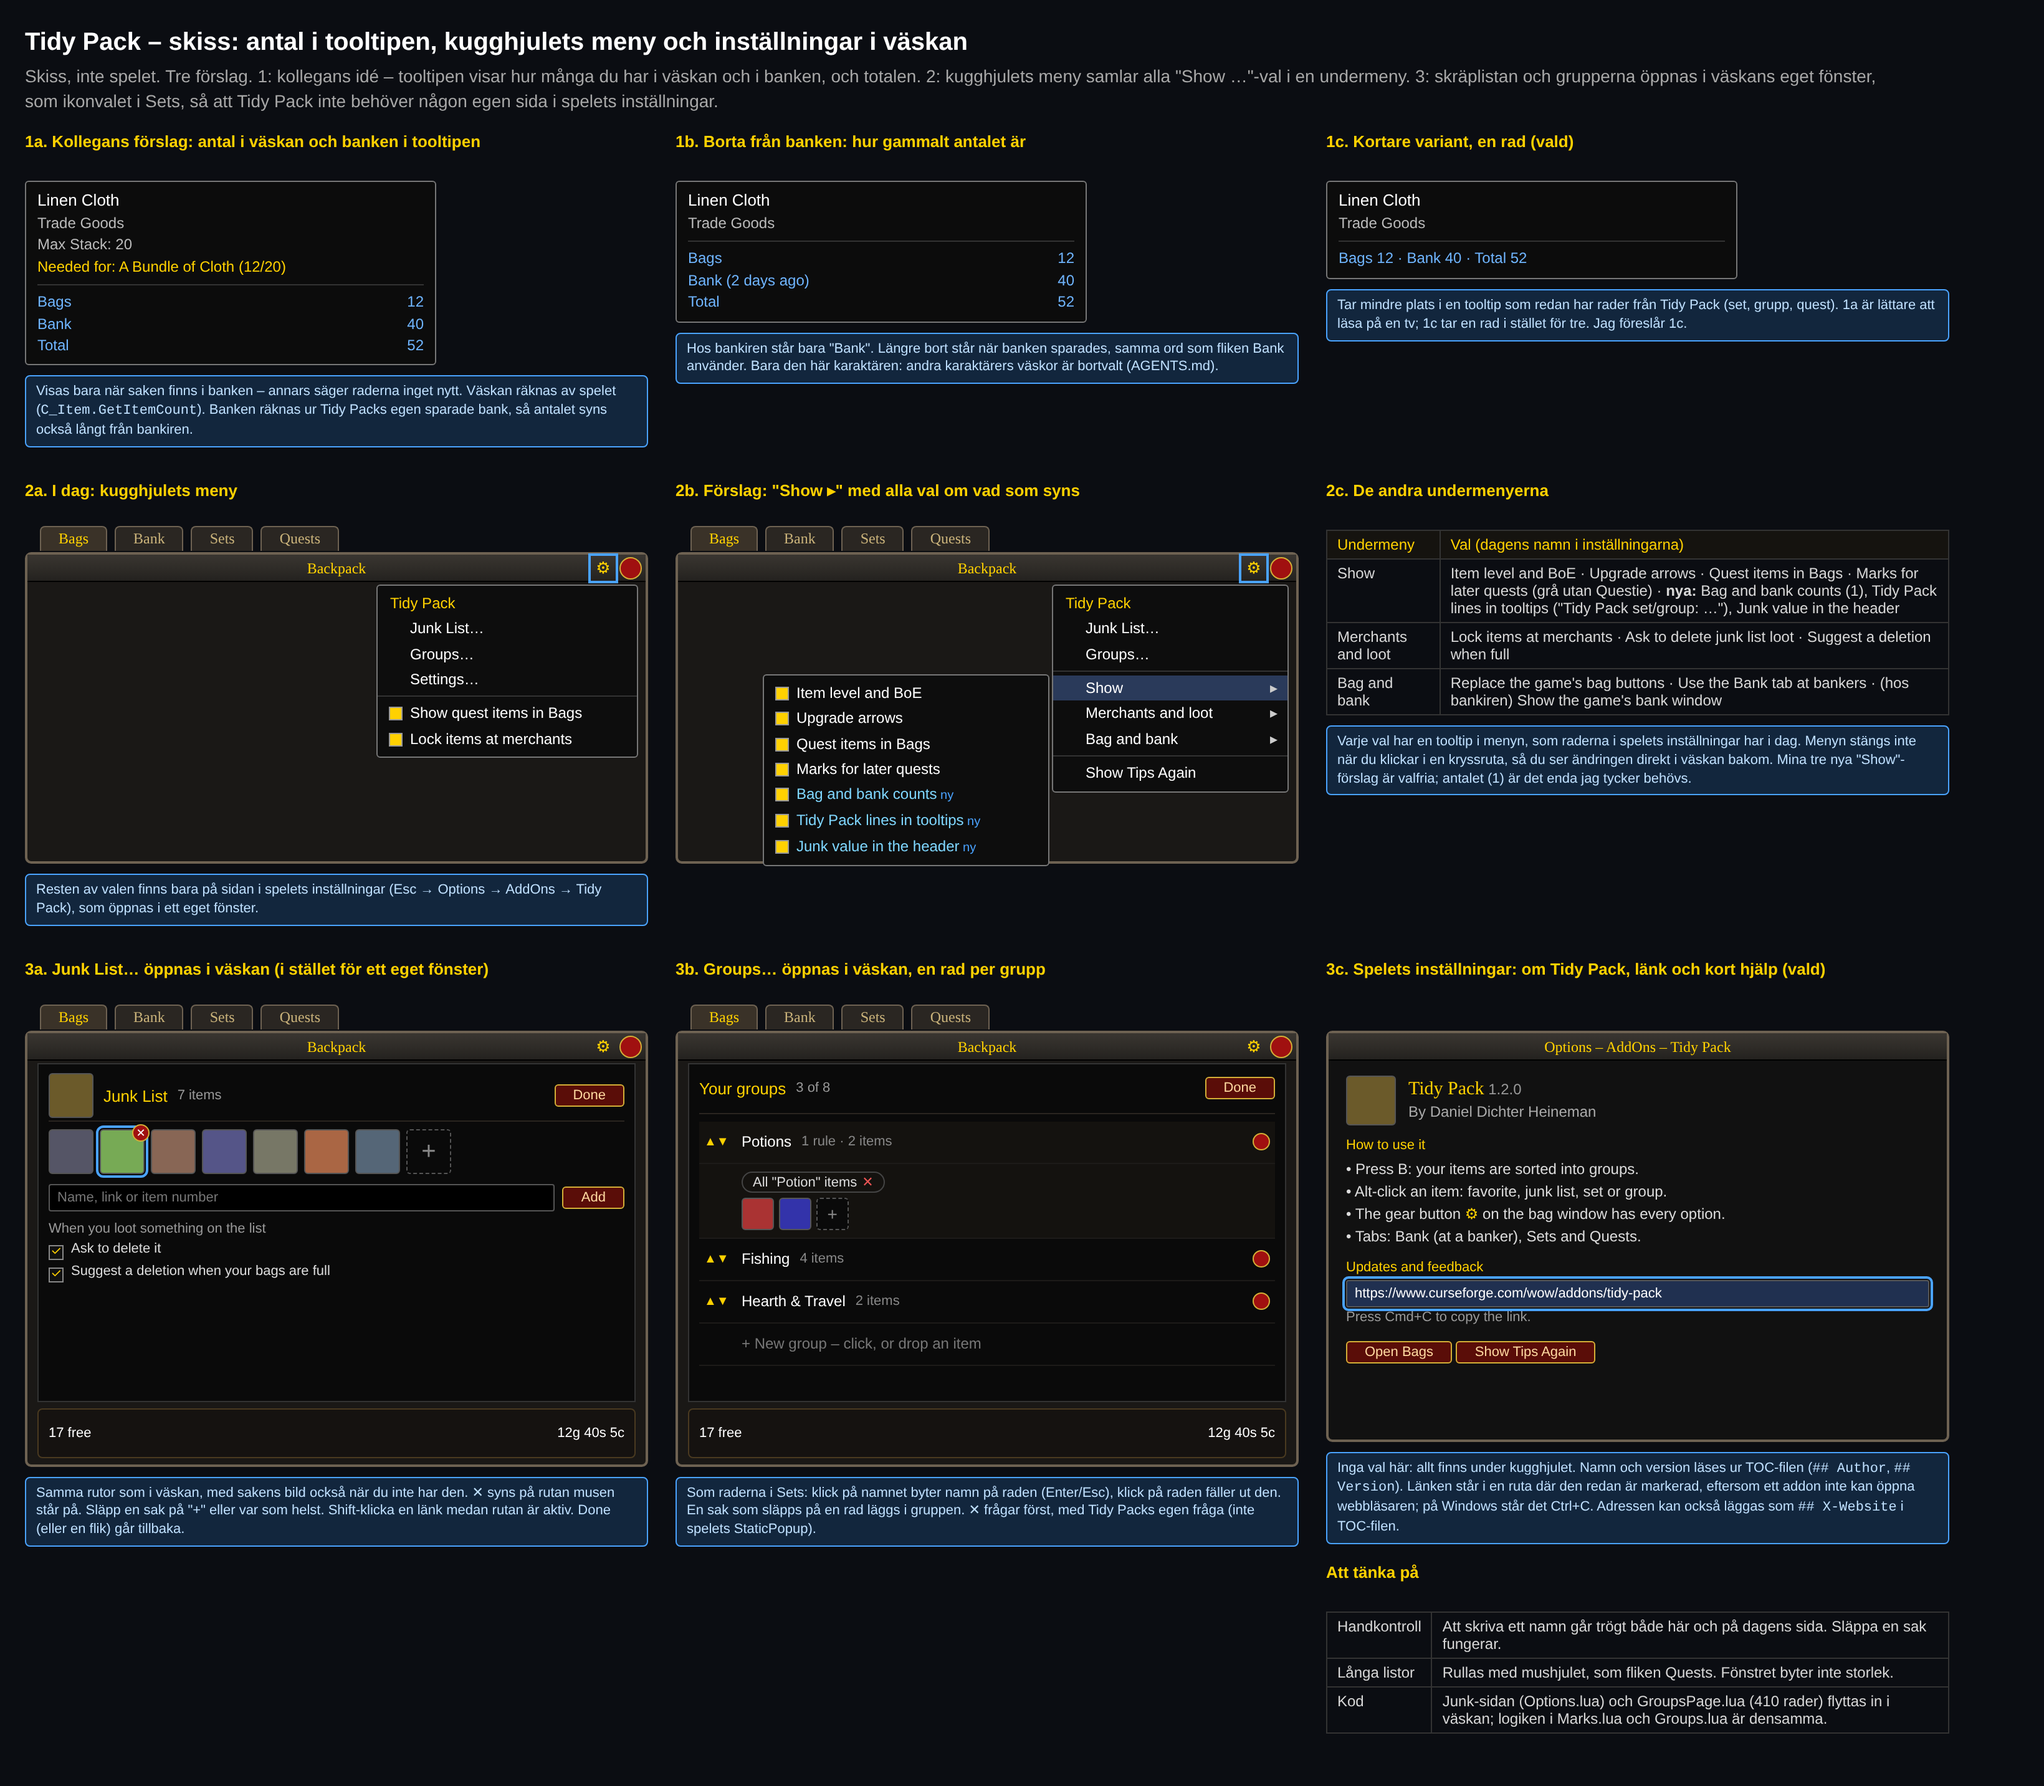
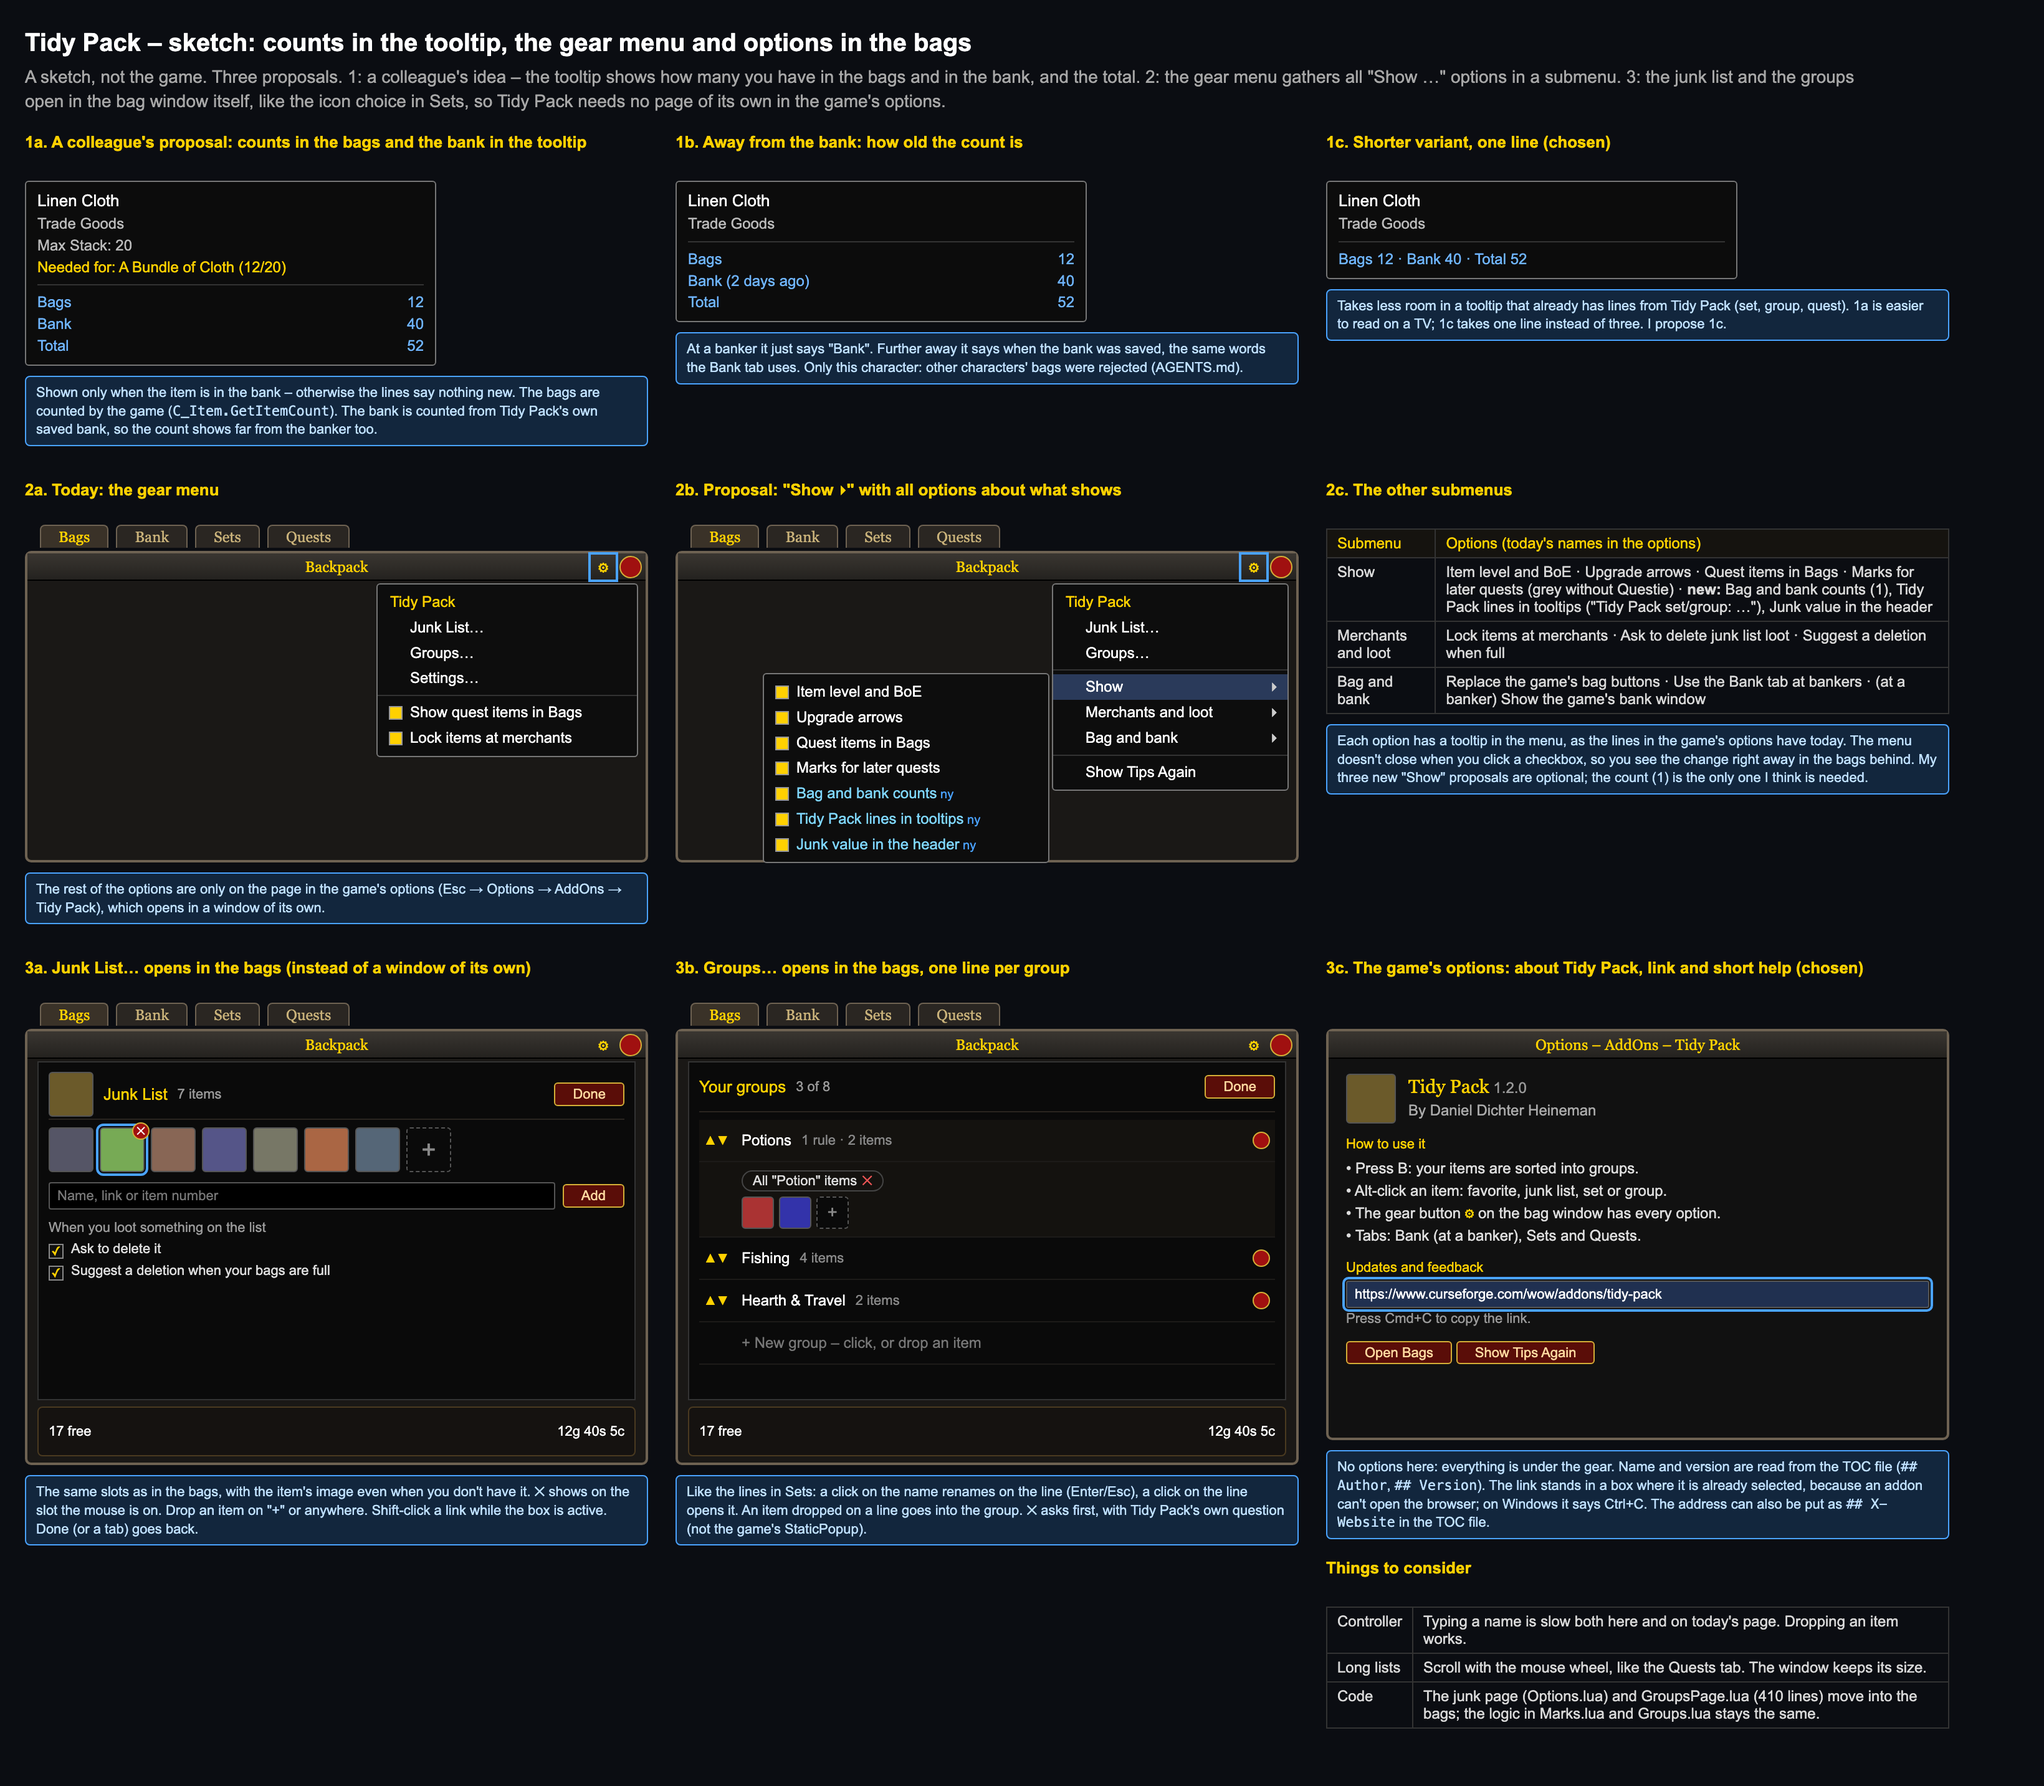
Translate .design/sketch-settings-in-bag to English (#7)

diff --git a/.design/sketch-settings-in-bag.html b/.design/sketch-settings-in-bag.html
@@ -1,5 +1,5 @@
 <!doctype html>
-<html lang="sv"><head><meta charset="utf-8"><title>Inställningar i väskan</title>
+<html lang="en"><head><meta charset="utf-8"><title>Options in the bags</title>
 <style>
 *{box-sizing:border-box}body{margin:0;padding:20px;background:#0b0d12;color:#d8d8d8;font:14px/1.4 Arial,sans-serif;width:1600px}
 h1{font-size:20px;margin:0 0 4px;color:#fff}.n{color:#a8a8a8;margin:0 0 14px;max-width:1500px}
@@ -38,13 +38,13 @@ h1{font-size:20px;margin:0 0 4px;color:#fff}.n{color:#a8a8a8;margin:0 0 14px;max
 .alt{font:11px Arial;color:#aaa;margin-top:10px}
 table{border-collapse:collapse;font:12px Arial;margin-top:6px}td,th{border:1px solid #333;padding:4px 8px;text-align:left;vertical-align:top}th{color:#ffd100;font-weight:normal;background:#15130f}
 </style></head><body>
-<h1>Tidy Pack – skiss: antal i tooltipen, kugghjulets meny och inställningar i väskan</h1>
-<p class="n">Skiss, inte spelet. Tre förslag. 1: kollegans idé – tooltipen visar hur många du har i väskan och i banken, och totalen. 2: kugghjulets meny samlar alla "Show …"-val i en undermeny. 3: skräplistan och grupperna öppnas i väskans eget fönster, som ikonvalet i Sets, så att Tidy Pack inte behöver någon egen sida i spelets inställningar.</p>
+<h1>Tidy Pack – sketch: counts in the tooltip, the gear menu and options in the bags</h1>
+<p class="n">A sketch, not the game. Three proposals. 1: a colleague's idea – the tooltip shows how many you have in the bags and in the bank, and the total. 2: the gear menu gathers all "Show …" options in a submenu. 3: the junk list and the groups open in the bag window itself, like the icon choice in Sets, so Tidy Pack needs no page of its own in the game's options.</p>
 
 <!-- 1. Tooltip -->
 <div class="row">
  <div class="col">
-  <h2>1a. Kollegans förslag: antal i väskan och banken i tooltipen</h2>
+  <h2>1a. A colleague's proposal: counts in the bags and the bank in the tooltip</h2>
   <div class="tt">
    <div class="w">Linen Cloth</div>
    <div class="gr">Trade Goods</div>
@@ -55,10 +55,10 @@ table{border-collapse:collapse;font:12px Arial;margin-top:6px}td,th{border:1px s
    <div class="cnt"><span>Bank</span><span>40</span></div>
    <div class="cnt"><span>Total</span><span>52</span></div>
   </div>
-  <div class="call">Visas bara när saken finns i banken – annars säger raderna inget nytt. Väskan räknas av spelet (<code>C_Item.GetItemCount</code>). Banken räknas ur Tidy Packs egen sparade bank, så antalet syns också långt från bankiren.</div>
+  <div class="call">Shown only when the item is in the bank – otherwise the lines say nothing new. The bags are counted by the game (<code>C_Item.GetItemCount</code>). The bank is counted from Tidy Pack's own saved bank, so the count shows far from the banker too.</div>
  </div>
  <div class="col">
-  <h2>1b. Borta från banken: hur gammalt antalet är</h2>
+  <h2>1b. Away from the bank: how old the count is</h2>
   <div class="tt">
    <div class="w">Linen Cloth</div>
    <div class="gr">Trade Goods</div>
@@ -67,24 +67,24 @@ table{border-collapse:collapse;font:12px Arial;margin-top:6px}td,th{border:1px s
    <div class="cnt"><span>Bank (2 days ago)</span><span>40</span></div>
    <div class="cnt"><span>Total</span><span>52</span></div>
   </div>
-  <div class="call">Hos bankiren står bara "Bank". Längre bort står när banken sparades, samma ord som fliken Bank använder. Bara den här karaktären: andra karaktärers väskor är bortvalt (AGENTS.md).</div>
+  <div class="call">At a banker it just says "Bank". Further away it says when the bank was saved, the same words the Bank tab uses. Only this character: other characters' bags were rejected (AGENTS.md).</div>
  </div>
  <div class="col">
-  <h2>1c. Kortare variant, en rad (vald)</h2>
+  <h2>1c. Shorter variant, one line (chosen)</h2>
   <div class="tt">
    <div class="w">Linen Cloth</div>
    <div class="gr">Trade Goods</div>
    <div class="sep"></div>
    <div class="bl">Bags 12 · Bank 40 · Total 52</div>
   </div>
-  <div class="call">Tar mindre plats i en tooltip som redan har rader från Tidy Pack (set, grupp, quest). 1a är lättare att läsa på en tv; 1c tar en rad i stället för tre. Jag föreslår 1c.</div>
+  <div class="call">Takes less room in a tooltip that already has lines from Tidy Pack (set, group, quest). 1a is easier to read on a TV; 1c takes one line instead of three. I propose 1c.</div>
  </div>
 </div>
 
 <!-- 2. Gear menu -->
 <div class="row">
  <div class="col">
-  <h2>2a. I dag: kugghjulets meny</h2>
+  <h2>2a. Today: the gear menu</h2>
   <div class="bag" style="height:250px">
    <div class="tabs"><div class="tab on">Bags</div><div class="tab">Bank</div><div class="tab">Sets</div><div class="tab">Quests</div></div>
    <div class="t">Backpack<span class="g hl">⚙</span><span class="x"></span></div>
@@ -96,10 +96,10 @@ table{border-collapse:collapse;font:12px Arial;margin-top:6px}td,th{border:1px s
     <div class="ck on">Lock items at merchants</div>
    </div>
   </div>
-  <div class="call">Resten av valen finns bara på sidan i spelets inställningar (Esc → Options → AddOns → Tidy Pack), som öppnas i ett eget fönster.</div>
+  <div class="call">The rest of the options are only on the page in the game's options (Esc → Options → AddOns → Tidy Pack), which opens in a window of its own.</div>
  </div>
  <div class="col">
-  <h2>2b. Förslag: "Show ▸" med alla val om vad som syns</h2>
+  <h2>2b. Proposal: "Show ▸" with all options about what shows</h2>
   <div class="bag" style="height:250px">
    <div class="tabs"><div class="tab on">Bags</div><div class="tab">Bank</div><div class="tab">Sets</div><div class="tab">Quests</div></div>
    <div class="t">Backpack<span class="g hl">⚙</span><span class="x"></span></div>
@@ -125,21 +125,21 @@ table{border-collapse:collapse;font:12px Arial;margin-top:6px}td,th{border:1px s
   </div>
  </div>
  <div class="col">
-  <h2>2c. De andra undermenyerna</h2>
+  <h2>2c. The other submenus</h2>
   <table>
-   <tr><th>Undermeny</th><th>Val (dagens namn i inställningarna)</th></tr>
-   <tr><td>Show</td><td>Item level and BoE · Upgrade arrows · Quest items in Bags · Marks for later quests (grå utan Questie) · <b class="bl">nya:</b> Bag and bank counts (1), Tidy Pack lines in tooltips ("Tidy Pack set/group: …"), Junk value in the header</td></tr>
+   <tr><th>Submenu</th><th>Options (today's names in the options)</th></tr>
+   <tr><td>Show</td><td>Item level and BoE · Upgrade arrows · Quest items in Bags · Marks for later quests (grey without Questie) · <b class="bl">new:</b> Bag and bank counts (1), Tidy Pack lines in tooltips ("Tidy Pack set/group: …"), Junk value in the header</td></tr>
    <tr><td>Merchants and loot</td><td>Lock items at merchants · Ask to delete junk list loot · Suggest a deletion when full</td></tr>
-   <tr><td>Bag and bank</td><td>Replace the game's bag buttons · Use the Bank tab at bankers · (hos bankiren) Show the game's bank window</td></tr>
+   <tr><td>Bag and bank</td><td>Replace the game's bag buttons · Use the Bank tab at bankers · (at a banker) Show the game's bank window</td></tr>
   </table>
-  <div class="call">Varje val har en tooltip i menyn, som raderna i spelets inställningar har i dag. Menyn stängs inte när du klickar i en kryssruta, så du ser ändringen direkt i väskan bakom. Mina tre nya "Show"-förslag är valfria; antalet (1) är det enda jag tycker behövs.</div>
+  <div class="call">Each option has a tooltip in the menu, as the lines in the game's options have today. The menu doesn't close when you click a checkbox, so you see the change right away in the bags behind. My three new "Show" proposals are optional; the count (1) is the only one I think is needed.</div>
  </div>
 </div>
 
 <!-- 3. Junk + groups in bag -->
 <div class="row">
  <div class="col">
-  <h2>3a. Junk List… öppnas i väskan (i stället för ett eget fönster)</h2>
+  <h2>3a. Junk List… opens in the bags (instead of a window of its own)</h2>
   <div class="bag">
    <div class="tabs"><div class="tab on">Bags</div><div class="tab">Bank</div><div class="tab">Sets</div><div class="tab">Quests</div></div>
    <div class="t">Backpack<span class="g">⚙</span><span class="x"></span></div>
@@ -160,10 +160,10 @@ table{border-collapse:collapse;font:12px Arial;margin-top:6px}td,th{border:1px s
    </div>
    <div class="foot"><span>17 free</span><span style="margin-left:auto">12g 40s 5c</span></div>
   </div>
-  <div class="call">Samma rutor som i väskan, med sakens bild också när du inte har den. ✕ syns på rutan musen står på. Släpp en sak på "+" eller var som helst. Shift-klicka en länk medan rutan är aktiv. Done (eller en flik) går tillbaka.</div>
+  <div class="call">The same slots as in the bags, with the item's image even when you don't have it. ✕ shows on the slot the mouse is on. Drop an item on "+" or anywhere. Shift-click a link while the box is active. Done (or a tab) goes back.</div>
  </div>
  <div class="col">
-  <h2>3b. Groups… öppnas i väskan, en rad per grupp</h2>
+  <h2>3b. Groups… opens in the bags, one line per group</h2>
   <div class="bag">
    <div class="tabs"><div class="tab on">Bags</div><div class="tab">Bank</div><div class="tab">Sets</div><div class="tab">Quests</div></div>
    <div class="t">Backpack<span class="g">⚙</span><span class="x"></span></div>
@@ -182,10 +182,10 @@ table{border-collapse:collapse;font:12px Arial;margin-top:6px}td,th{border:1px s
    </div>
    <div class="foot"><span>17 free</span><span style="margin-left:auto">12g 40s 5c</span></div>
   </div>
-  <div class="call">Som raderna i Sets: klick på namnet byter namn på raden (Enter/Esc), klick på raden fäller ut den. En sak som släpps på en rad läggs i gruppen. ✕ frågar först, med Tidy Packs egen fråga (inte spelets StaticPopup).</div>
+  <div class="call">Like the lines in Sets: a click on the name renames on the line (Enter/Esc), a click on the line opens it. An item dropped on a line goes into the group. ✕ asks first, with Tidy Pack's own question (not the game's StaticPopup).</div>
  </div>
  <div class="col">
-  <h2>3c. Spelets inställningar: om Tidy Pack, länk och kort hjälp (vald)</h2>
+  <h2>3c. The game's options: about Tidy Pack, link and short help (chosen)</h2>
   <div class="bag" style="height:330px;background:#111">
    <div class="t">Options – AddOns – Tidy Pack</div>
    <div style="padding:12px 14px;font:12px/1.5 Arial;color:#ddd">
@@ -203,12 +203,12 @@ table{border-collapse:collapse;font:12px Arial;margin-top:6px}td,th{border:1px s
     <div style="margin-top:10px"><span class="btn">Open Bags</span> <span class="btn">Show Tips Again</span></div>
    </div>
   </div>
-  <div class="call">Inga val här: allt finns under kugghjulet. Namn och version läses ur TOC-filen (<code>## Author</code>, <code>## Version</code>). Länken står i en ruta där den redan är markerad, eftersom ett addon inte kan öppna webbläsaren; på Windows står det Ctrl+C. Adressen kan också läggas som <code>## X-Website</code> i TOC-filen.</div>
-  <h2 style="margin-top:14px">Att tänka på</h2>
+  <div class="call">No options here: everything is under the gear. Name and version are read from the TOC file (<code>## Author</code>, <code>## Version</code>). The link stands in a box where it is already selected, because an addon can't open the browser; on Windows it says Ctrl+C. The address can also be put as <code>## X-Website</code> in the TOC file.</div>
+  <h2 style="margin-top:14px">Things to consider</h2>
   <table>
-   <tr><td>Handkontroll</td><td>Att skriva ett namn går trögt både här och på dagens sida. Släppa en sak fungerar.</td></tr>
-   <tr><td>Långa listor</td><td>Rullas med mushjulet, som fliken Quests. Fönstret byter inte storlek.</td></tr>
-   <tr><td>Kod</td><td>Junk-sidan (Options.lua) och GroupsPage.lua (410 rader) flyttas in i väskan; logiken i Marks.lua och Groups.lua är densamma.</td></tr>
+   <tr><td>Controller</td><td>Typing a name is slow both here and on today's page. Dropping an item works.</td></tr>
+   <tr><td>Long lists</td><td>Scroll with the mouse wheel, like the Quests tab. The window keeps its size.</td></tr>
+   <tr><td>Code</td><td>The junk page (Options.lua) and GroupsPage.lua (410 lines) move into the bags; the logic in Marks.lua and Groups.lua stays the same.</td></tr>
   </table>
  </div>
 </div>
